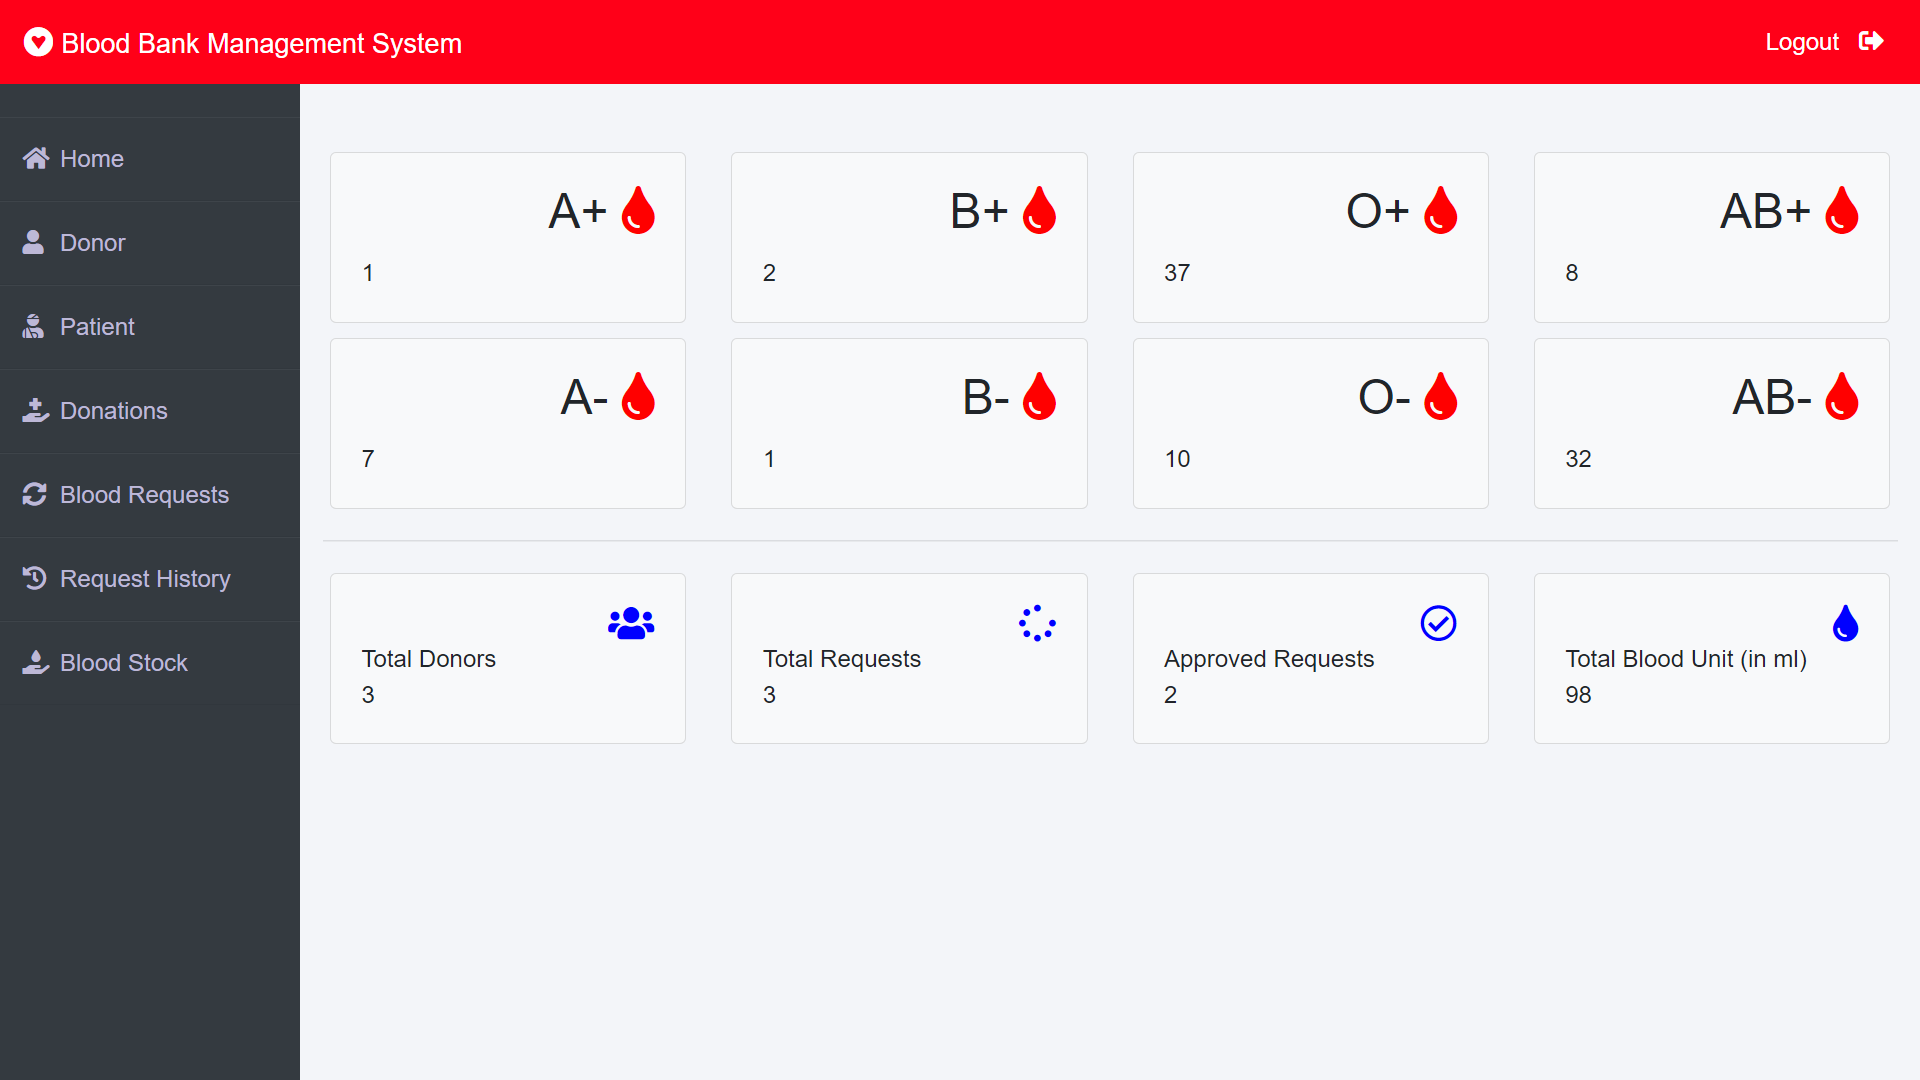
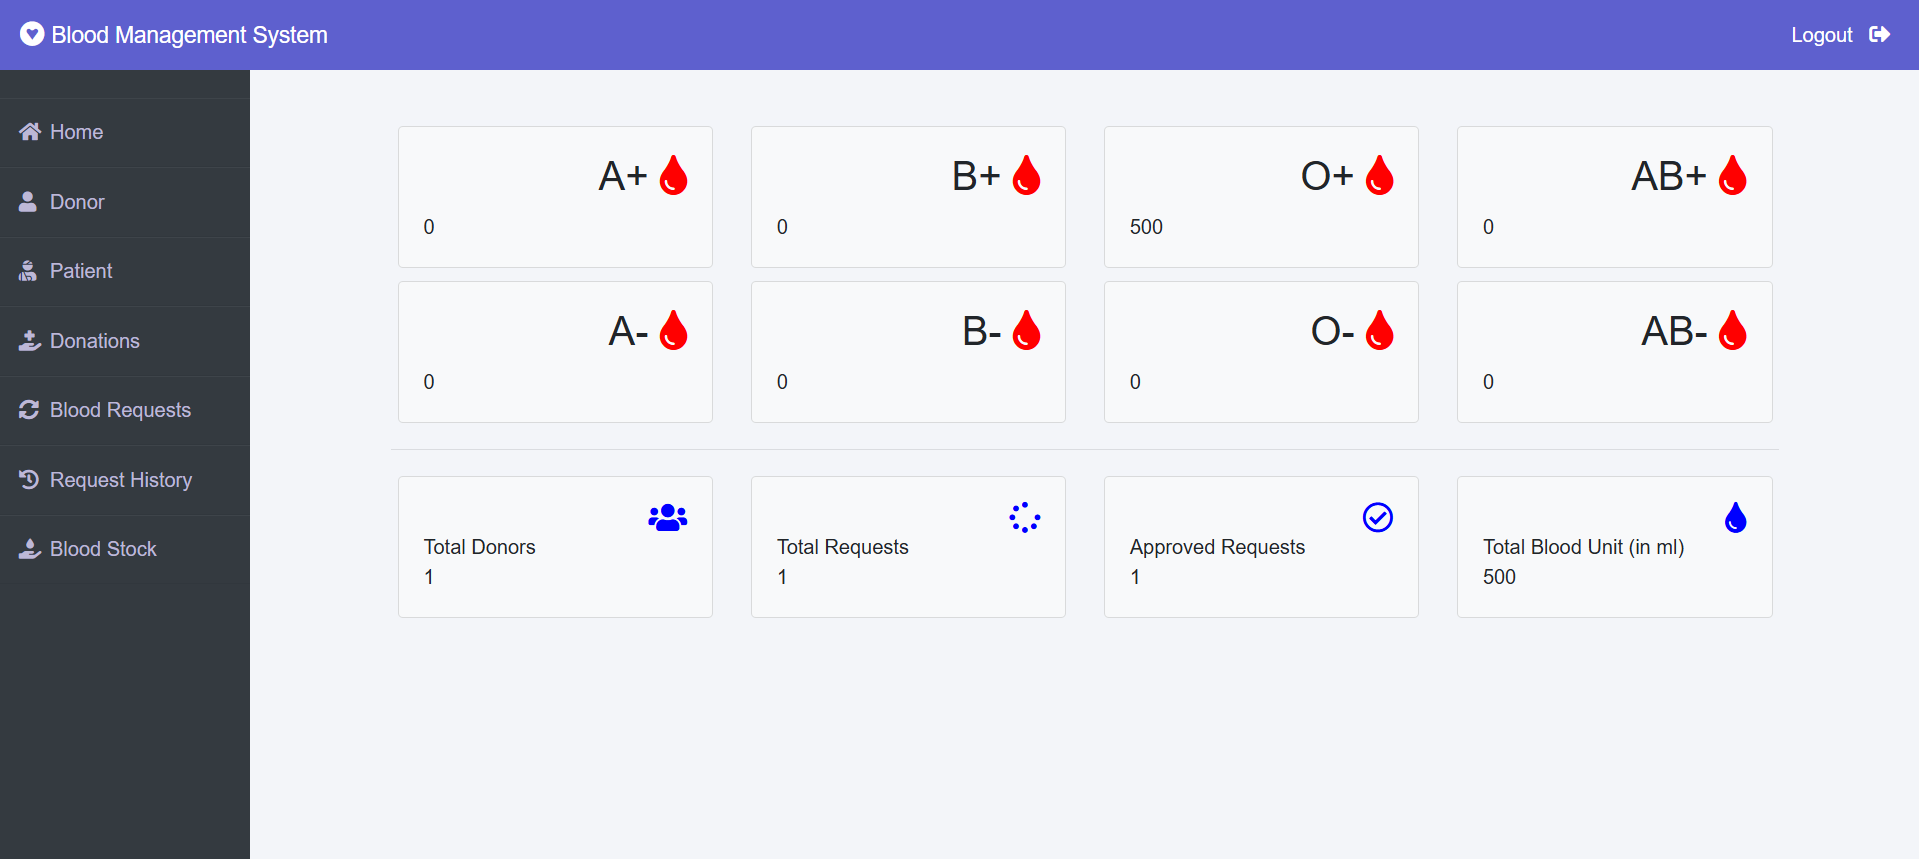
second commit

diff --git a/templates/blood/navbar.html b/templates/blood/navbar.html
@@ -21,7 +21,7 @@
     <!-- Header Section -->
     <header class="header">
         <nav class="navbar" >
-            <h1 class="logo">SugarTrack</h1>
+            <h1 class="logo">Blood Management and Testing</h1>
             <ul class="nav-links" style=' font-size: 22px'> 
                 <li><a href="../">Home</a></li>
                 <li><a href="#how-it-works">How It Works</a></li>

diff --git a/README.md b/README.md
@@ -7,11 +7,7 @@
 ### Admin Dashboard
 ![dashboard snap](https://github.com/sumitkumar1503/bloodbankmanagement/blob/master/static/screenshot/admindashboard.png?raw=true)
 ### Blood Donation 
-![invoice snap](https://github.com/sumitkumar1503/bloodbankmanagement/blob/master/static/screenshot/blooddonation.png?raw=true)
-### Blood Request
-![doctor snap](https://github.com/sumitkumar1503/bloodbankmanagement/blob/master/static/screenshot/bloodrequest.png?raw=true)
-### Logout
-![doctor snap](https://github.com/sumitkumar1503/bloodbankmanagement/blob/master/static/screenshot/logout.png?raw=true)
+
 ---
 ## Functions
 
